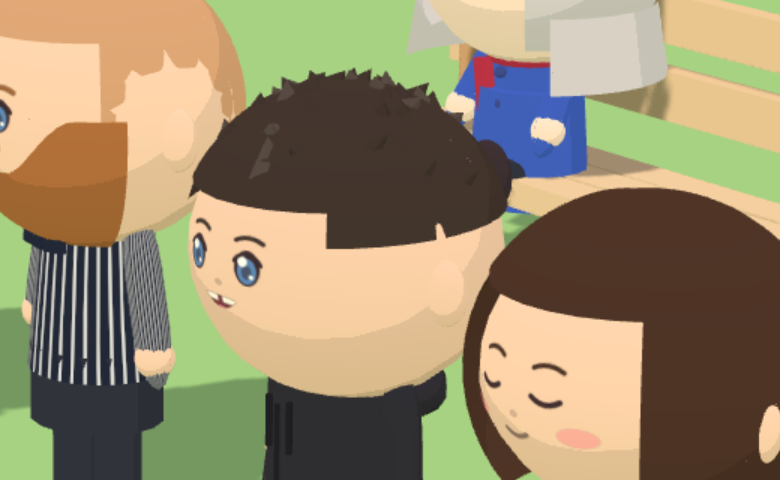
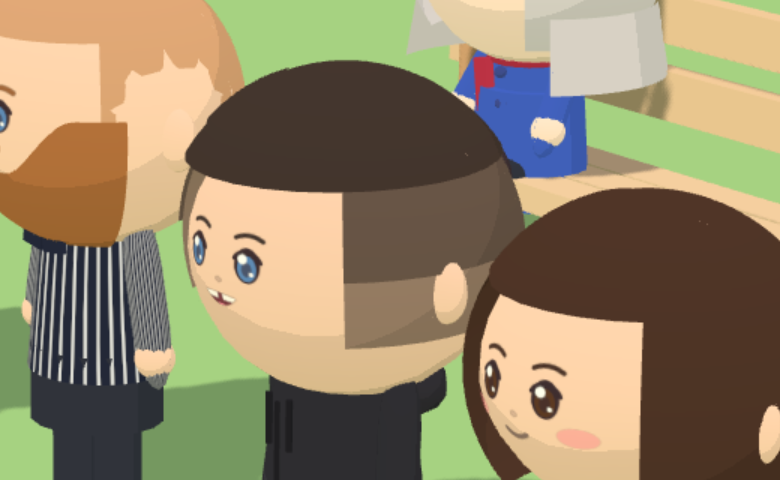
Jens: Fade wie Oli; Fade-Kappen passen sich breiteren Köpfen an (Haut sticht nicht durch)
Claude-Session: https://claude.ai/code/session_01ThTYhPHTkGtFy4ue8CC8z3

diff --git a/src/world3d/models/chibi3d.ts b/src/world3d/models/chibi3d.ts
@@ -424,13 +424,16 @@ function addHair(head: THREE.Group, a: Appearance, R: number) {
       break;
     }
     case 'fade': {
-      // Fade: Seiten und Nacken ganz kurz (nach unten immer hautnäher), oben etwas längeres, glattes Deckhaar (ohne Tolle)
+      // Fade: Seiten und Nacken ganz kurz (nach unten immer hautnäher), oben etwas längeres, glattes Deckhaar (ohne Tolle).
+      // Breitere (kräftigere) Köpfe brauchen etwas größere Kappen, sonst sticht die Haut durch.
+      const w = 1 + (a.build - 1) * 0.35;
+      const k = Math.max(1, w);
       const buzz = mixHex(a.skinTone, col, 0.55);
       const graded = mixHex(a.skinTone, col, 0.8);
-      backCap(1.9, 1.012, buzz, 0.95);
-      backCap(1.5, 1.022, graded, 0.95);
-      topCap(1.02, 1.085);
-      head.add(shell(R * 1.1, col, FRONT - 0.95, 1.9, 0.3, 0.5)); // kurzer, glatter Pony
+      backCap(1.9, 1.012 * k + 0.012, buzz, 0.95);
+      backCap(1.5, 1.03 * k + 0.02, graded, 0.95);
+      topCap(1.02, 1.085 * k);
+      head.add(shell(R * 1.1 * k, col, FRONT - 0.95, 1.9, 0.3, 0.5)); // kurzer, glatter Pony
       break;
     }
     case 'zerzaust': {

diff --git a/src/data/npcs/looks.ts b/src/data/npcs/looks.ts
@@ -94,10 +94,10 @@ export const LOOKS: Readonly<Record<string, Appearance>> = {
     eyeColor: palette.eyeColors.blau,
     smile: 'grinsen',
   },
-  /** Jens (Onkel): dunkle, zerzauste Haare, kein Bart, rundes Gesicht, untersetzt, schwarzer Hoodie, Zahnlücken-Grinsen */
+  /** Jens (Onkel): dunkler Fade (Seiten kurz, oben etwas länger), kein Bart, rundes Gesicht, untersetzt, schwarzer Hoodie, Zahnlücken-Grinsen */
   jens: {
     ...base,
-    hairStyle: 'zerzaust',
+    hairStyle: 'fade',
     hairColor: '#40342f',
     skinTone: '#f6cfb4',
     outfit: 'hoodie',

diff --git a/CLAUDE.md b/CLAUDE.md
@@ -28,7 +28,7 @@ Meilensteine und Fortschritt: siehe [`docs/development-status.md`](docs/developm
 | **Lars** | großer Bruder, Arzt – Praxis/Apotheke; guter Humor, hat immer einen Spruch auf Lager, trinkt sehr gern Bier (dezent), zockt gern mit Oli „Fallout 3“ & „Halo“ (z. B. „So, und nicht mit e, sonst ist es ein See.“) | groß & kräftig, kurz geschorene rotblonde Haare, rotblonder Vollbart, blaue Augen, dunkles Streifenhemd |
 | **Olaf** | Papa, Finanzamt – Dorfkasse/Bank mit Sparbuch (Kontoauszug-Brief zum Monatsanfang); **Zwillingsbruder von Jens** (die beiden nennen sich gern „Frère“); liest gern den Comic „Das kleine Arschloch“ (Christin findet ihn grauenhaft); wohnte mit Christin früher an der Ostsee | eher klein, dunkle angegraute Haare, grauer kurzer Bart, eckige Brille, weißes Hemd mit dunkler Weste |
 | **Christin** | Olafs Freundin – sehr ordentlich, achtet auf Ordnung & Sauberkeit; mag „Das kleine Arschloch“ gar nicht; lebte mit Olaf früher an der Ostsee | schlank, dunkelbrauner Bob mit Seitenscheitel, braune Augen, korallrotes Oberteil |
-| **Jens** | Onkel, Coach, Dandy – Bistro/Kochstudio & Galerie, Französisch + Sächsisch (zog nach der Schule nach Leipzig, ist dort nicht aufgewachsen); liebt Kunst, reist leidenschaftlich gern um die Welt, ein bisschen fabelhaft 🌈 (liebevoll & selbstverständlich, nie klischeehaft); **Zwillingsbruder von Olaf**; sächselt gern aus Spaß mit Lina; lädt sonntags zum Abendessen zu sich nach Hause ein (Lina, Oli, Lars – manchmal Olaf, Christin, Gisela) | untersetzt, rundes Gesicht, dunkle zerzauste Haare, kein Bart, blaue Augen, Zahnlücken-Grinsen, dunkler Hoodie |
+| **Jens** | Onkel, Coach, Dandy – Bistro/Kochstudio & Galerie, Französisch + Sächsisch (zog nach der Schule nach Leipzig, ist dort nicht aufgewachsen); liebt Kunst, reist leidenschaftlich gern um die Welt, ein bisschen fabelhaft 🌈 (liebevoll & selbstverständlich, nie klischeehaft); **Zwillingsbruder von Olaf**; sächselt gern aus Spaß mit Lina; lädt sonntags zum Abendessen zu sich nach Hause ein (Lina, Oli, Lars – manchmal Olaf, Christin, Gisela) | untersetzt, rundes Gesicht, dunkler Fade (Seiten kurz, oben etwas länger), kein Bart, blaue Augen, Zahnlücken-Grinsen, dunkler Hoodie |
 | **Thalia** | beste Freundin, Geografie – Partys, Karten, Gesteine/Fossilien; war mit Lina eine Woche auf Studienreise in Tschechien; Lina will sie verkuppeln | schlank, glatte dunkelbraune, etwa kinn- bis nackenlange Haare mit Mittelscheitel, braune Augen, kleine Creolen, grünes Halstuch, schwarze Jacke, weite Jeans |
 | **Oma Gisela** | Oma – Bank vorm Haus, Weisheiten, Kekse, Strickrezepte; kommt eigentlich aus **Dessau**, hat **immer das letzte Wort**, misstrauisch („Die Ärzte wollen nur dein Geld …“), starke Meinung zu allem („köstlich!“ – „pfui!“); Likörchen/Zigarette dezent & humorvoll, nie glorifizierend; Witwe von **Opa Ludwig** (verstorben; Sportlehrer & leidenschaftlicher Sportfan), an den sie liebevoll zurückdenkt – warm, nie traurig-schwer | klein, zierlich, offene silbergraue Haare (kein Dutt), **keine Brille**, königsblauer Mantel mit rotem Tuch |
 | **Winston** | Linas treuer kleiner Dackel – läuft ihr überallhin nach | rotbrauner Kurzhaardackel mit Schlappohren und rosa Halsband (`data/winston.ts`) |
